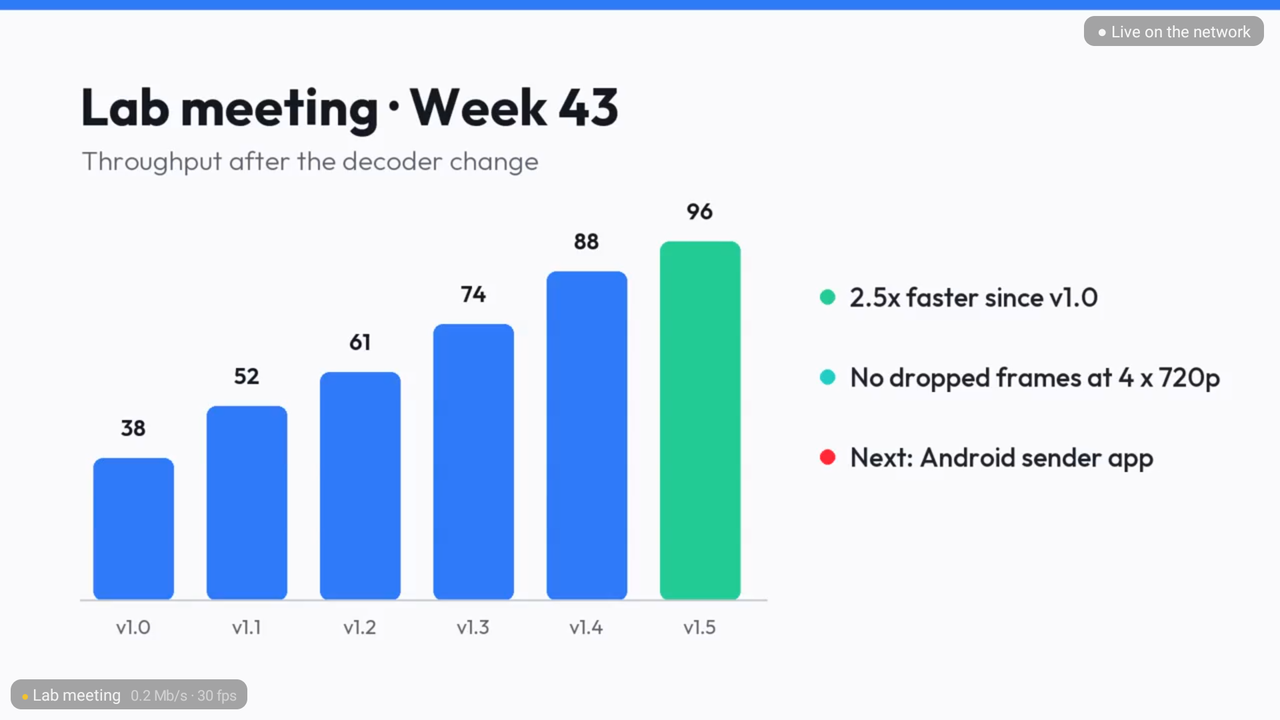
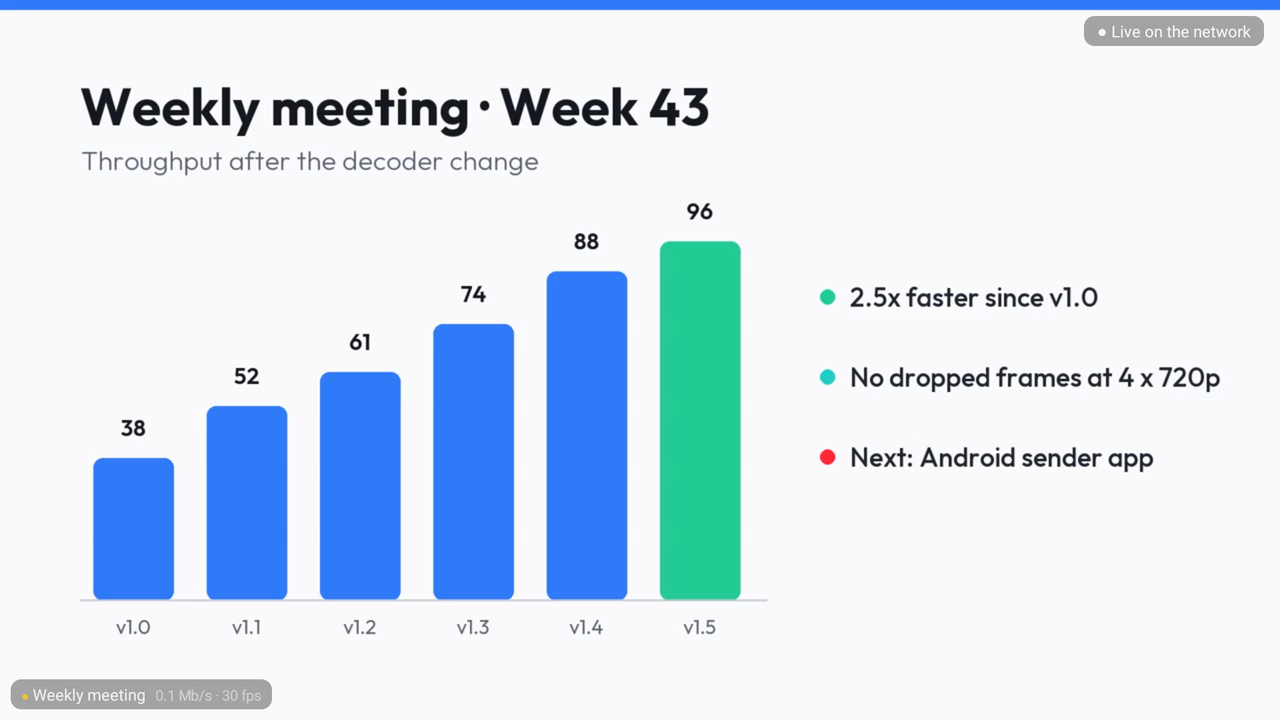
Describe it for any meeting room or classroom TV, not one lab
- READMEs, SECURITY.md and comments: no lab, owner or student wording
- Mocks and example screens use generic names; README pictures re-captured

Changed region(s): [[0.0625, 0.1222, 0.5625, 0.2139], [0.0312, 0.9472, 0.2188, 1.0]]

diff --git a/androidbox/mock/share/index.html b/androidbox/mock/share/index.html
@@ -3,7 +3,7 @@
 <head>
 <meta charset="utf-8">
 <meta name="viewport" content="width=device-width, initial-scale=1">
-<title>Share to NAIL'EM</title>
+<title>Share to Meeting Room</title>
 <style>
   @font-face { font-family: Outfit; src: url(outfit.ttf); font-weight: 100 900; }
   :root { --bg: #07080a; --card: rgba(26,27,32,.78); --line: rgba(255,255,255,.08); --text: #fff;
@@ -122,7 +122,7 @@
 <main>
   <div class="brand"><span class="mark" aria-hidden="true"><i></i><i></i><i></i><i></i></span>StreamPort
     <span class="places" id="places">3 of 4 places free</span></div>
-  <h1>Share to <span>NAIL'EM</span></h1>
+  <h1>Share to <span>Meeting Room</span></h1>
   <div class="rule"></div>
 
   <section id="setup">
@@ -152,7 +152,7 @@
   <section id="live" hidden>
     <div class="card">
       <div class="stage" id="stage"><div class="fake" id="fake">Your shared screen</div><span class="onair" id="onair">On the TV</span></div>
-      <div class="status wait" id="status">Connecting to NAIL'EM</div>
+      <div class="status wait" id="status">Connecting to Meeting Room</div>
       <div class="steps" id="steps"><i class="done"></i><i class="now"></i><i></i></div>
       <p class="detail" id="detail"></p>
       <p class="keep">Keep this page open while you share. Closing it stops sharing.</p>
@@ -171,7 +171,7 @@
       <li>Nothing on the TV after 20 seconds? Stop, and share again.</li>
     </ul>
   </details>
-  <footer>StreamPort on NAIL'EM · 192.168.1.23</footer>
+  <footer>StreamPort on Meeting Room · 192.168.1.50</footer>
 </main>
 <script>
   const $ = (id) => document.getElementById(id);
@@ -190,7 +190,7 @@
     $('onair').hidden = s === 'connecting';
     $('flip').hidden = s !== 'camera';
     const st = $('status');
-    if (s === 'connecting') { st.className = 'status wait'; st.textContent = 'Connecting to NAIL’EM'; $('steps').hidden = false; $('detail').textContent = ''; }
+    if (s === 'connecting') { st.className = 'status wait'; st.textContent = 'Connecting to Meeting Room'; $('steps').hidden = false; $('detail').textContent = ''; }
     else { st.className = 'status ok'; st.textContent = 'On the TV now'; $('steps').hidden = true;
       $('detail').textContent = s === 'camera' ? '720×960 · 30 fps · 2.1 Mb/s' : '1280×720 · 30 fps · 3.4 Mb/s'; }
   }

diff --git a/androidbox/mock/idle.html b/androidbox/mock/idle.html
@@ -80,7 +80,7 @@
 
     <div class="head">
       <div class="eyebrow">Share your screen to</div>
-      <div class="name">NAIL'EM</div>
+      <div class="name">Meeting Room</div>
       <div class="rule"></div>
       <div class="sub">Up to 4 screens at once. The layout adjusts by itself.</div>
     </div>
@@ -95,7 +95,7 @@
         </div>
         <h3>iPhone, iPad, Mac</h3>
         <div class="who">AirPlay · several at once</div>
-        <div class="steps">Open <b>Control Center</b><br>→ <b>Screen Mirroring</b> → <b>NAIL'EM</b></div>
+        <div class="steps">Open <b>Control Center</b><br>→ <b>Screen Mirroring</b> → <b>Meeting Room</b></div>
         <div class="fine">iPhone, iPad: swipe down from the top-right corner. Mac: the Control Center icon in the menu bar.</div>
       </div>
 
@@ -108,7 +108,7 @@
             <h3>Any browser</h3>
             <div class="who">Laptops share the screen · phones the camera</div>
             <div class="steps">Scan, or open</div>
-            <div class="url">https://192.168.1.23:9443</div>
+            <div class="url">https://192.168.1.50:9443</div>
           </div>
           <div class="qr"></div>
         </div>
@@ -120,7 +120,7 @@
     <div class="notice" id="notice" hidden><span class="dot"></span><span><b>Rebroadcast is on:</b> shared screens are also streamed to everyone on the network. Watch in VLC</span><span class="addr">udp://@239.255.42.42:5004</span></div>
 
     <div class="foot">
-      <span>Admin <b>http://192.168.1.23:8089</b></span>
+      <span>Admin <b>http://192.168.1.50:8089</b></span>
       <span>StreamPort</span>
     </div>
   </div>

diff --git a/androidbox/app/src/main/java/com/nailem/streamport/admin/AdminServer.java b/androidbox/app/src/main/java/com/nailem/streamport/admin/AdminServer.java
@@ -36,7 +36,7 @@ import java.util.concurrent.atomic.AtomicInteger;
  * PIN gives the browser a random session token in an HttpOnly, SameSite=Strict cookie for 30 days; the box keeps
  * only SHA-256 hashes of tokens. Every API call needs that cookie and an {@code X-Admin: 1} header, which a
  * cross-site form can't send. Requests whose Host isn't an IP address or a {@code .local} name are refused, which
- * stops DNS-rebinding pages from reaching the API through a student's browser.
+ * stops DNS-rebinding pages from reaching the API through a visitor's browser.
  */
 public final class AdminServer {
 
@@ -498,7 +498,7 @@ public final class AdminServer {
             }
             boolean live = pin != null && now <= pinExpires;
             // Only the browser that asked for the PIN can use it; a guess from anywhere else is simply wrong
-            // (and counts against that address), so it can't burn the real owner's PIN.
+            // (and counts against that address), so it can't burn the PIN someone else asked for.
             ok = live && from.equals(pinOwner) && MessageDigest.isEqual(
                     pin.getBytes(StandardCharsets.US_ASCII), given.getBytes(StandardCharsets.US_ASCII));
             if (ok) {

diff --git a/androidbox/app/src/main/java/com/nailem/streamport/Config.java b/androidbox/app/src/main/java/com/nailem/streamport/Config.java
@@ -45,7 +45,7 @@ final class Config {
 
     /**
      * Ask on the TV before showing a sender that hasn't been approved since the receiver started. Off by default
-     * (the lab wants senders to appear at once): anyone on the TV's Wi-Fi can then show their screen.
+     * (senders appear at once, so a meeting starts without anyone at the remote): anyone on the TV's Wi-Fi can then show their screen.
      */
     static boolean ask(Context c) {
         return prefs(c).getBoolean("ask", false);
@@ -53,7 +53,7 @@ final class Config {
 
     /**
      * Rebroadcast defaults: light enough next to four 720p screens (measured 2026-10-27: CPU 78% at 12 fps, 79% at
-     * 15). It is for presentations, so 12 fps is plenty (owner's call: anything over 10 is fine).
+     * 15). It is for presentations, so 12 fps is plenty (anything over 10 is fine).
      */
     static final int REBROADCAST_HEIGHT = 720;
     static final int REBROADCAST_FPS = 12;

diff --git a/androidbox/mock/admin_server.py b/androidbox/mock/admin_server.py
@@ -9,7 +9,7 @@ STATE = {
     "maxStreamsFor": {"720p": 8, "1080p": 4, "1440p": 2, "4k": 1},
     "rebroadcast": {"enabled": True, "live": True, "mirroring": True, "url": "udp://@239.255.42.42:5004"},
     "senders": [
-        {"id": 1, "kind": "AirPlay", "name": "Lab meeting", "model": "Mac14,2", "address": "192.168.1.31",
+        {"id": 1, "kind": "AirPlay", "name": "Weekly meeting", "model": "Mac14,2", "address": "192.168.1.31",
          "width": 1280, "height": 720, "waiting": False, "quality": "good", "fps": 30, "mbps": 2.1, "jitterMs": 4},
         {"id": 2, "kind": "Browser", "name": "Code review", "model": "Chrome", "address": "192.168.1.44",
          "width": 1280, "height": 720, "waiting": False, "quality": "good", "fps": 30, "mbps": 1.4, "jitterMs": 6},

diff --git a/androidbox/app/src/main/java/com/nailem/streamport/airplay/Limits.java b/androidbox/app/src/main/java/com/nailem/streamport/airplay/Limits.java
@@ -57,7 +57,7 @@ public final class Limits {
      * Most screens allowed at each resolution. Per sender the receiver may buffer about five of its largest
      * packets (packet, keyframe cache, decoder queue): about 40 MB at 4K, so four 4K senders stay near 160 MB,
      * inside the app's 256 MB heap. The decoder is the tighter limit in practice: it plays about one 4K stream
-     * (or four 1080p) in real time, so several senders really sending 4K at once will stutter (owner's choice).
+     * (or four 1080p) in real time, so several senders really sending 4K at once will stutter (allowed on purpose).
      */
     public static int maxStreamsFor(Resolution r) {
         switch (r) {

diff --git a/androidbox/app/src/main/java/com/nailem/streamport/webrtc/ShareServer.java b/androidbox/app/src/main/java/com/nailem/streamport/webrtc/ShareServer.java
@@ -45,7 +45,7 @@ import javax.net.ssl.SSLSocket;
  * <li>{@code DELETE} that URL ends the share. Nobody else knows it.</li>
  * <li>No trickle ICE ({@code PATCH} is 405): offers and answers carry all their candidates.</li>
  * </ul>
- * Like AirPlay, senders are accepted without asking (the owner's choice) within the same limits: LAN only,
+ * Like AirPlay, senders are accepted without asking (the default) within the same limits: LAN only,
  * {@link Limits#maxStreams} screens, {@link Hub#MAX_PER_HOST} per address, ten offers per address per minute.
  */
 public final class ShareServer {

diff --git a/androidbox/app/src/main/java/com/nailem/streamport/webrtc/SelfSignedCert.java b/androidbox/app/src/main/java/com/nailem/streamport/webrtc/SelfSignedCert.java
@@ -38,7 +38,7 @@ import javax.net.ssl.KeyManagerFactory;
 import javax.net.ssl.SSLContext;
 
 /**
- * The share page's TLS certificate: self-signed by the box (the owner's choice), so browsers warn once per device.
+ * The share page's TLS certificate: self-signed by the box (no setup needed), so browsers warn once per device.
  * Browsers only allow screen sharing on HTTPS pages, which is the whole reason for it.
  * <p>
  * EC P-256, valid 397 days (Apple rejects longer-lived TLS certificates even when the user accepts them), with the

diff --git a/androidbox/SECURITY.md b/androidbox/SECURITY.md
@@ -1,19 +1,19 @@
 # Stream Port security review
 
-Stream Port listens on a lab Wi-Fi that many students share. Every byte it reads from the network can come from
-any of them. This file covers what was reviewed, what was fixed, and what is accepted on purpose.
+Stream Port listens on a shared Wi-Fi (a meeting room, an office, a classroom) that many people use. Every byte it
+reads from the network can come from any of them. This file covers what was reviewed, what was fixed, and what is accepted on purpose.
 
 ## Threat model
 
 - **Who can reach it**: any host on the TV's LAN, on TCP 7000 (AirPlay control), the per-sender video ports, the
   UDP audio ports, and TCP 8089 (admin page). Every port refuses addresses that aren't local (private, link-local,
   loopback, ULA, CGNAT), so a port forward from the internet gets nothing.
-- **Accepted by the owner's choice**: senders are let in without asking, so anyone on the Wi-Fi can put their
+- **Accepted by design (the default)**: senders are let in without asking, so anyone on the Wi-Fi can put their
   screen on the TV (up to the stream limit). `ask=true` brings back on-screen approval.
 - **What must not happen**: a sender reaching beyond its own tile (injecting into, tearing down or hijacking
   another sender), crashing or freezing the receiver, exhausting the 2 GB box, or anyone without the on-TV PIN
   changing settings or kicking people.
-- **Out of scope**: adb over the network (the owner leaves it on while working on the box).
+- **Out of scope**: adb over the network (turn it off once the box is set up).
 
 ## 1. Code taken from java-airplay (MIT)
 
@@ -59,8 +59,8 @@ trusts them for authentication.
 
 ## 3. Admin page (port 8089)
 
-- **Login**: a 6-digit PIN shown on the TV for 60 s on request. Whoever can see the TV can log in (the owner's
-  choice). Five tries per PIN; a new PIN at most every 15 s; 20 wrong guesses lock logins for 15 minutes.
+- **Login**: a 6-digit PIN shown on the TV for 60 s on request. Whoever can see the TV can log in (by
+  design). Five tries per PIN; a new PIN at most every 15 s; 20 wrong guesses lock logins for 15 minutes.
   Comparison is constant-time.
 - **Sessions**: 32 random bytes in an `HttpOnly; SameSite=Strict` cookie for 30 days. The box stores only SHA-256
   hashes, at most 20. "Log out every browser" clears them all.
@@ -110,7 +110,7 @@ isolation, BPlist and FairPlay checks were found sound. Findings and fixes:
 | 3 | Admin page slowloris: 10 s timeout per byte, 8 connections | Whole-request deadline (10 s); 4 connections per address |
 | 4 | Deeply nested JSON could overflow the stack and kill the app | Bodies capped at 512 bytes, nesting over 4 refused before parsing; both servers' connection threads catch `Throwable` |
 | 5 | One host could fill every place with empty sessions | At most 2 senders per address; a session must send real video (codec or frame packets) within 20 s |
-| 6 | Worst-case buffering at 4K × 8 streams exceeded the 256 MB heap | 1440p and 4K allow at most 4 screens (about 160 MB worst case at 4K; first set to 2 for 4K, raised to 4 at the owner's request); decoder queue sized to two of the sender's largest packets |
+| 6 | Worst-case buffering at 4K × 8 streams exceeded the 256 MB heap | 1440p and 4K allow at most 4 screens (about 160 MB worst case at 4K; first set to 2 for 4K, raised to 4 later); decoder queue sized to two of the sender's largest packets |
 | 7 | Lowering the limits cut off senders already mirroring (contrary to the page's own text) | Each session keeps the limits in force when it joined |
 | 8 | With `ask=true`, approval was remembered by the sender-claimed device ID | Remembered by device ID and address together |
 | 9 | UDP audio can still be spoofed by someone who captured the session setup on the shared Wi-Fi | Inherent (AirPlay audio has no MAC); the source-port lock is the practical defence. Accepted |
@@ -119,12 +119,12 @@ isolation, BPlist and FairPlay checks were found sound. Findings and fixes:
 | 12 | Long Thai names could exceed the mDNS label length | Names capped at 50 bytes of UTF-8 (about 16 Thai letters) |
 
 Verified on the box after the fixes: a Host with another IP gets 421; a second address can't replace or burn the
-owner's PIN and is locked out after 5 wrong guesses while the owner's PIN stays valid; a 200-deep JSON body gets
+PIN another browser asked for and is locked out after 5 wrong guesses while that PIN stays valid; a 200-deep JSON body gets
 400 and the app keeps running; a third sender from one address is refused.
 
 ## 7. Browser sharing (WebRTC, WHIP) and its audit (Fable)
 
-Port 9443, HTTPS with a certificate the box makes itself (owner's choice; each device warns once). One way: the TV
+Port 9443, HTTPS with a certificate the box makes itself (by design: no setup, each device warns once). One way: the TV
 only receives. A share is a screen or a camera, sent by the share page or any WHIP sender.
 
 Built in from the start: LAN-only addresses, Host must be the box's own IP (no DNS rebinding), POST needs
@@ -145,7 +145,7 @@ Audit findings and fixes:
 | 7 | One accept error ended the server for good (share, and the same pattern in AirPlay and admin) | All three accept loops log, pause briefly and carry on |
 | 8 | An `Error` while answering leaked a PeerConnection | The share is always closed if no answer was made |
 | 9 | A certificate made before Wi-Fi was up named no IP, and every renewal changed the key | Renewals keep the key; the certificate is reissued when the box's address changes while running |
-| 10 | Info: `pc` not volatile; a frozen picture keeps a place (as with AirPlay); students are taught to click through a certificate warning | `pc` volatile; the rest accepted and noted here |
+| 10 | Info: `pc` not volatile; a frozen picture keeps a place (as with AirPlay); people are taught to click through a certificate warning | `pc` volatile; the rest accepted and noted here |
 
 Accepted: the self-signed certificate means someone able to intercept traffic on the Wi-Fi (ARP spoofing) could proxy
 the page and learn a share's secret URL. Same class as the plain-HTTP admin page: LAN only, documented.

diff --git a/androidbox/README.md b/androidbox/README.md
@@ -1,6 +1,7 @@
 # Streaming Port for Android TV boxes (StreamPort)
 
-Screen-sharing receiver for Android TV boxes, built for the NAIL'EM lab's Xiaomi TV Box S (2nd gen). Up to **4
+Screen-sharing receiver for the Android TV box behind a meeting room or classroom TV (tested on the Xiaomi TV Box S,
+2nd gen). Up to **4
 screens at once** from iPhones, iPads and Macs (AirPlay) and from any browser (screen or camera, WebRTC), laid out
 automatically to use as much of the TV as possible. It appears under Screen Mirroring with the name you give it
 (the box's own device name until renamed: Settings > Device Preferences > About > Device name).
@@ -91,8 +92,8 @@ with that address, the tiles a small "Live on the network" mark, and the share p
 Idle with the welcome screen on air the box uses about 12% CPU.
 
 - TTL 1: the packets never leave the LAN segment. 7 TS packets per datagram (1316 bytes).
-- 1280x720 at 12 fps by default (`rebroadcast_res`, `rebroadcast_fps`; it is for presentations, and anything over
-  10 fps is fine by the owner); bitrate scales from 4 Mb/s at 1080p, and still screens cost almost nothing (the last frame is repeated every 100 ms for late joiners).
+- 1280x720 at 12 fps by default (`rebroadcast_res`, `rebroadcast_fps`; it is for presentations, where anything over
+  10 fps is fine); bitrate scales from 4 Mb/s at 1080p, and still screens cost almost nothing (the last frame is repeated every 100 ms for late joiners).
 - Capture: MediaProjection mirror display into an RGBA ImageReader, libyuv to I420, the hardware AVC encoder,
   `rebroadcast/TsMuxer.java`. The encoder's own surface input manages only about 10 MP/s on this box (1080p at
   5 fps), hence the CPU conversion.
@@ -109,7 +110,7 @@ Mb/s and lost TS packets (from the continuity counters).
 
 - Runs in the background from boot. When a sender connects, the TV switches to Stream Port; when the last one
   leaves, it goes back to Home.
-- Senders are accepted automatically (owner's choice). Anyone on the TV's Wi-Fi can show their screen; only LAN
+- Senders are accepted automatically (by default, so a meeting starts without anyone at the remote). Anyone on the TV's Wi-Fi can show their screen; only LAN
   addresses are accepted, and at most 4 at a time by default (others are refused until a place frees up).
 - **Layouts**: *dynamic* (default) makes the primary screen the biggest and fits the rest around it to use the most
   of the TV; *grid* gives every screen an equal cell. Pictures keep their aspect ratio and are never cropped.

diff --git a/README.md b/README.md
@@ -5,7 +5,7 @@
   </picture>
 </p>
 
-<p align="center">Share screens to a TV, several at once, laid out automatically. Built for the NAIL'EM lab.</p>
+<p align="center">Turn the TV in a meeting room or classroom into a shared screen: several people share at once, from iPhones, iPads, Macs or any browser, and the TV lays them out automatically. No app to install on the senders.</p>
 
 ![Four screens on the TV: a slide, code, a phone and a dashboard, laid out automatically](docs/dynamic.png)
 
